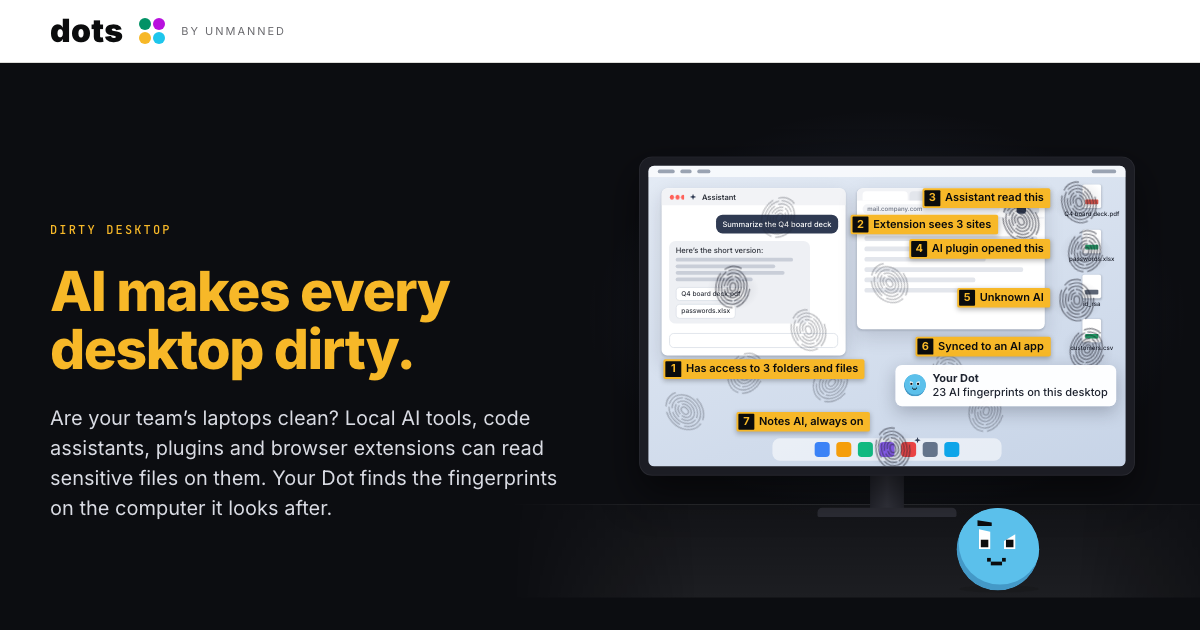
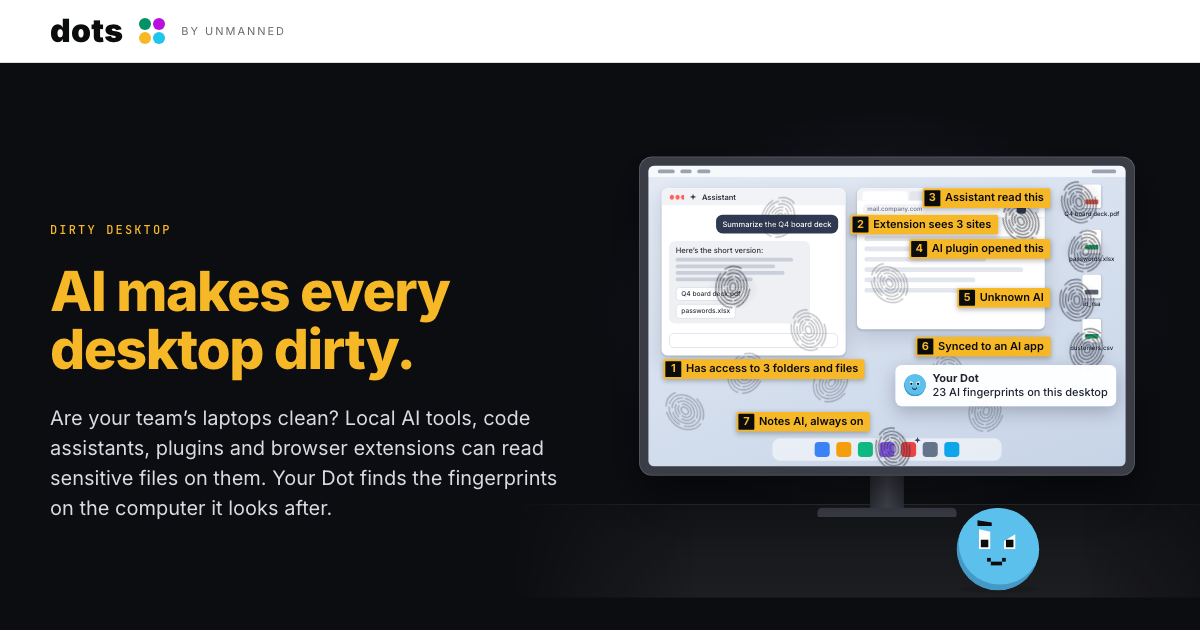
Dirty desktop: no kill switch box in the opening, lighter monitor frame

Changed region(s): [[0.5242, 0.2413, 0.9558, 0.754]]

diff --git a/website/exp/dots-dirty-desktop/index.html b/website/exp/dots-dirty-desktop/index.html
@@ -260,9 +260,9 @@
 
   /* the monitor: a bezel, the screen, a stand; the screen lights the room a little */
   .ddd-glow{left:-40px;top:-40px;width:640px;height:440px;border-radius:50%;background:radial-gradient(closest-side,rgba(150,180,235,0.16),rgba(150,180,235,0));}
-  .ddd-bezel{left:16px;top:10px;width:528px;height:340px;border-radius:14px;background:#1c1d24;box-shadow:inset 0 0 0 1px rgba(255,255,255,0.06),0 18px 40px rgba(0,0,0,0.5);}
-  .ddd-neck{left:262px;top:350px;width:36px;height:36px;background:linear-gradient(90deg,#24252d,#33343d,#24252d);}
-  .ddd-base{left:206px;top:384px;width:148px;height:10px;border-radius:5px 5px 2px 2px;background:#2c2d35;}
+  .ddd-bezel{left:16px;top:10px;width:528px;height:340px;border-radius:14px;background:#3a3c46;box-shadow:inset 0 0 0 1px rgba(255,255,255,0.14),inset 0 1px 0 rgba(255,255,255,0.12),0 18px 40px rgba(0,0,0,0.5);}   /* light enough to read against the room (Chad) */
+  .ddd-neck{left:262px;top:350px;width:36px;height:36px;background:linear-gradient(90deg,#2e3039,#454752,#2e3039);}
+  .ddd-base{left:206px;top:384px;width:148px;height:10px;border-radius:5px 5px 2px 2px;background:#3a3c46;}
   .ddd-screen{left:26px;top:20px;width:508px;height:320px;border-radius:6px;overflow:hidden;background:linear-gradient(160deg,#e4ebf5,#c7d4e7);}
   .ddd-screen > *{position:absolute;}
 
@@ -327,11 +327,10 @@
     .ddd .stage-fit{grid-row:4;width:100%;max-width:520px;}
   }
 
-  /* ---------- the opening: the kill switch's last frame (its room, box, fallen bot and eyes), then the screen switches on ----------
+  /* ---------- the opening: the kill switch's last frame (its room, fallen bot and eyes), then the screen switches on ----------
      Copied from dots-kill-switch so it looks the same; hidden at rest (the page's resting state is the end frame) */
   .ddd-ks{left:0;top:0;width:560px;height:480px;opacity:0;filter:brightness(0.3);}
   .ddd-ks > *{position:absolute;}
-  .ddd-ks .hks-labels,.ddd-ks .hks-lcd{filter:brightness(3.3);}   /* the display stayed lit in the dark */
   .ddd-eyes{left:0;top:0;width:560px;height:480px;z-index:3;pointer-events:none;}
   .ddd-eyes .hks-eyes{position:absolute;opacity:0;}
   .hks-bot{left:0;top:0;width:50px;height:48px;transform-origin:25px 30px;}
@@ -348,13 +347,6 @@
   .hks-bot.is-off .hks-eye::after{transform:rotate(-45deg);}
   .hks-bot.is-off .hks-visor{background:#25262e;box-shadow:none;}
   .hks-bot.is-off .hks-head{background:#7d7e88;box-shadow:inset -4px -5px 0 #696a74;}
-  .hks-ped{left:170px;top:318px;width:150px;height:132px;border-radius:6px 6px 2px 2px;background:linear-gradient(180deg,#34343c,#25252b);box-shadow:inset 0 2px 0 rgba(255,255,255,0.08);}
-  .hks-labels{left:170px;top:318px;width:150px;height:132px;box-sizing:border-box;padding:8px;display:flex;flex-direction:column;justify-content:center;gap:8px;}
-  .hks-plate{padding:4px;background:#d8202a;border-radius:2px;font:700 calc(11px / var(--s,1))/1.15 var(--font-mono);letter-spacing:0.1em;text-transform:uppercase;color:#fff;text-align:center;}
-  .hks-lcd{padding:4px;border-radius:2px;background:#0a0a0c;border:1px solid #444;
-    font:600 calc(11px / var(--s,1))/1.2 var(--font-mono);color:#ff5a60;text-shadow:0 0 6px rgba(255,60,70,0.7);text-align:center;}
-  .hks-mount{left:318px;top:404px;width:8px;height:44px;border-radius:0 2px 2px 0;background:#18181c;}
-  .hks-btn{left:324px;top:406px;width:26px;height:40px;border-radius:2px 22px 22px 2px;transform-origin:0 50%;background:radial-gradient(circle at 30% 35%,#ff7a80,#e3101e 55%,#9e0610);box-shadow:3px 0 0 #6d040b;}
   .hks-eyes{z-index:3;width:28px;height:10px;opacity:0.85;transform:scale(var(--size,1)) scaleY(var(--blink,1));}
   .hks-eyes::before,.hks-eyes::after{content:'';position:absolute;top:0;width:8px;height:10px;border-radius:3px;background:var(--c,#f2f2f5);box-shadow:0 0 6px var(--c,#f2f2f5);}
   .hks-eyes::before{left:0;} .hks-eyes::after{right:0;}
@@ -488,10 +480,6 @@
             <div class="ddd-glow" id="ddd-glow"></div>
             <!-- the opening: the kill switch’s last frame -->
             <div class="ddd-ks" id="ddd-ks">
-              <div class="hks-ped"></div>
-              <div class="hks-labels"><div class="hks-plate">AI kill switch</div><div class="hks-lcd" >1 of 247 AI agents stopped</div></div>
-              <div class="hks-mount"></div>
-              <div class="hks-btn" style="transform:translateX(-5px) scaleX(0.7)"></div>
               <div class="hks-bot is-red is-off" style="transform:translate(95px,409px) scale(1.4) rotate(100deg);--bones:1;z-index:4;filter:brightness(0.6)"><span class="hks-prop"></span><span class="hks-stem"></span><span class="hks-head"></span><span class="hks-visor"><span class="hks-eye" style="left:9px"></span><span class="hks-eye" style="left:21px"></span></span><svg class="hks-bones" viewBox="0 0 46 40" fill="#a7a8b3" stroke="#a7a8b3"><line x1="9" y1="7" x2="37" y2="33" stroke-width="6.5" stroke-linecap="round"/><circle cx="10.4" cy="3.3" r="4.4"/><circle cx="5.5" cy="8.6" r="4.4"/><circle cx="40.5" cy="31.4" r="4.4"/><circle cx="35.6" cy="36.7" r="4.4"/><line x1="37" y1="7" x2="9" y2="33" stroke-width="6.5" stroke-linecap="round"/><circle cx="40.5" cy="8.6" r="4.4"/><circle cx="35.6" cy="3.3" r="4.4"/><circle cx="10.4" cy="36.7" r="4.4"/><circle cx="5.5" cy="31.4" r="4.4"/></svg></div>
             </div>
             <div class="ddd-floor"></div>
